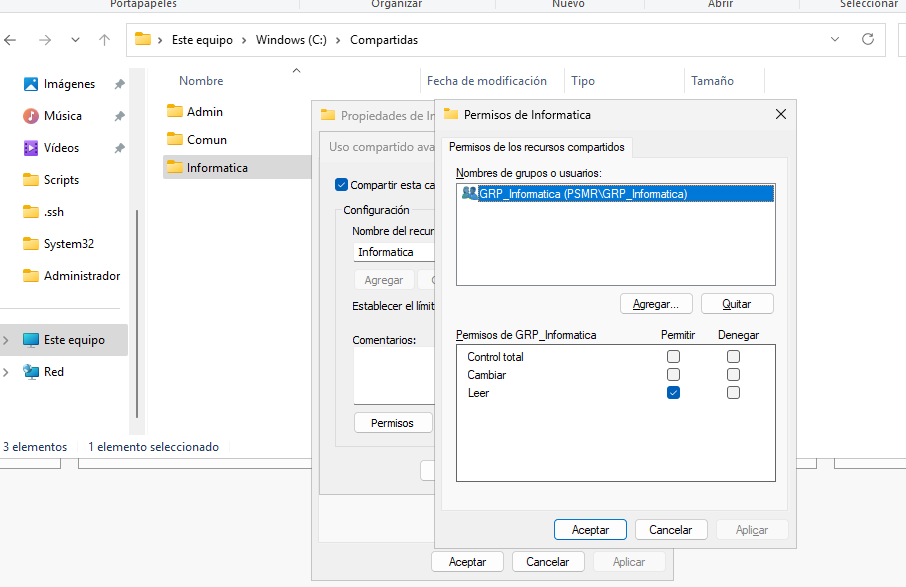
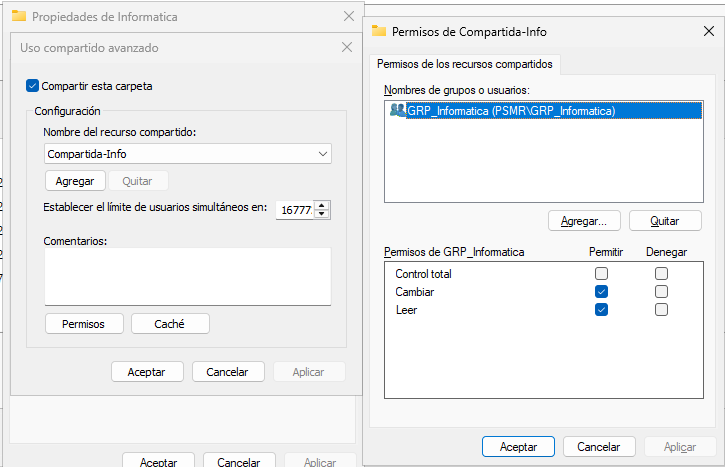
Practica 3 subida y README de la unidad actualizado

diff --git a/UT4 - Administración Remota/practica3/README.md b/UT4 - Administración Remota/practica3/README.md
@@ -18,15 +18,78 @@ Hay que añadir los usuarios al grupo de Informática para agrupar los usuarios 
 ![Grupo Informatica y usuarios](capturas/est-grupo-info.png)
 
 ## Tarea 1: Mapeo Automático de Unidades de Red
+#### Estructura de carpetas
 ![Estructura de carpetas](capturas/1-carpetas.png)
 
-Cuando entramos a las propiedades de la carpeta Informática y entramos en **Uso compartido avanzado**
+#### Permisos
+Cuando entramos a las propiedades de una de las carpetas y entramos en **Uso compartido avanzado**, podemos seleccionar qué grupo queremos que vea esa carpeta. Le he dado los permisos de lectura y escritura para que ese grupo pueda crear, modificar y leer archivos. También le he dado permiso al administrador para que tenga control total.
+
 ![Permisos de la carpeta Informatica](capturas/1-permisos.png)
-![captura]()
-![captura]()
-![captura]()
-![captura]()
-![captura]()
-![captura]()
-![captura]()
+
+Esta es la pestaña de seguridad:
+
+![Pestaña de seguridad](capturas/1-seguridad.png)
+
+#### Creación de GPO
+Se crea la GPO correspondiente para el mapeo de unidades y se vincula a las unidades organizativas para ordenar los permisos y aplicar configuraciones sin afectar a otros grupos y usuarios.
+![GPO creada](capturas/1-gpo.png)
+
+#### Mapeo de unidades configuradas
+
+![Unidades configuradas](capturas/1-unidades.png)
+
+En la configuración de unidades, seleccionamos la ruta de red del servidor y el nombre de la carpeta como ubicación para que apunte a la carpeta que se va a compartir. Debemos asignar una letra para la unidad, en este caso, la Z:
+
+![Asignación de unidad de Admin](capturas/1-asignacion-admin.png)
+
+Para segmentar la unidad, debemos ir a la pestaña comunes y seleccionar un destinatario que va a ser el grupo de seguridad del grupo correspondiente a la carpeta, en este caso, **GRP_Administracion**.
+
+![Segmentación de Admin](capturas/1-segmentacion_admin.png)
+#### Muestra del explorador de archivos con los discos para cada usuario
+
+Una vez están los discos configurados, entramos dentro de un usuario en un Windows 11 cliente y vemos que en el explorador de archivos aparecen las unidades que hemos configurado para cada grupo y la carpeta para todos los usuarios.
+En esta captura vemos los recursos que aparecen para los usuarios que se encuentran dentro del grupo de administración.
+
+![Recursos del usuario Administrador](capturas/1-administrador.png)
+
+En esta captura, vemos los recursos que aparecen para los usuarios que se encuentran dentro del grupo de informática.
+
+![Recursos del usuario Informática](capturas/1-informatica.png)
+#### Acceso denegado para usuarios que no tienen permisos
+El usuario1 del grupo Informática no tiene permisos, por lo que no podrá acceder a la carpeta. 
+**Por alguna razón, el usuario es capaz de entrar dentro de la carpeta si la ruta es \\\\psmr.local\Compartida-Admin pero no muestra ningún contenido. Pero si se usa la dirección IP en vez del FQDN, si que da acceso denegado.**
+
+![Acceso denegado](capturas/1-acceso-denegado.png)
 ## 2. Script de limpieza automático
+#### Creación de la GPO
+
+Se crea una GPO vinculada a la unidad organizativa de Usuarios para ordenar la política y a quién se le va a aplicar
+
+![GPO creada](capturas/2-gpo.png)
+#### Configuración de la tarea
+
+En la configuración general, seleccionamos que sea el usuario System el que ejecute la tarea con los permisos más altos.
+
+![Configuración general](capturas/2-configuracion-general.png)
+
+En las opciones del desencadenador, pondremos que se ejecute semanalmente cada domingo cuando el servidor tenga menos carga y no haya nadie trabajando.
+
+![Configuración del desencadenador](capturas/2-configuracion-desencadenadores.png)
+
+La acción que realizará la tarea será ejecutar un powershell con el script de limpieza, que vendrá con los parámetros **-executionpolicy bypass** para que ignore las restricciones de ejecución de scripts y **-file** para indicar la ruta del script.
+
+![Configuración de la acción](capturas/2-configuracion-acciones.png)
+#### Tarea visible en el Programador de tareas del cliente
+
+Dentro del programador de tareas del cliente, se tiene que ejecutar como administrador para poder ver la tarea, ya que con los permisos básicos, no aparece.
+
+![Tarea visble](capturas/2-vista-programador.png)
+#### Ejecución exitosa
+
+Como vemos en el historial de la tarea, dice **task completed** por lo que vemos que si se ha ejecutado la tarea.
+
+![Ejecución exitosa](capturas/2-ejecucion.png)
+#### Contenido del log
+Si vamos a **C:\Logs**, vemos principalmente que se ha creado el directorio y, a su vez, se ha generado un archivo con el log de la ejecución del script
+
+![Log](capturas/2-contenido.png)

diff --git a/UT4 - Administración Remota/README.md b/UT4 - Administración Remota/README.md
@@ -1,8 +1,9 @@
 # UT4 Administrador remoto
 En esta unidad, se ve cómo podemos acceder remotamente a los servidores y cómo realizar monitorizaciones con distintas herramientas
-### Monitorización
+### 1. Monitorización
 - Cockpit
 - WAC (Windows Admin Center)
-### Acceso remoto
+### 2. Acceso remoto
 - SSH
 - RDP
+### 3. Mapeo de unidades y programación de tareas en Windows Server
